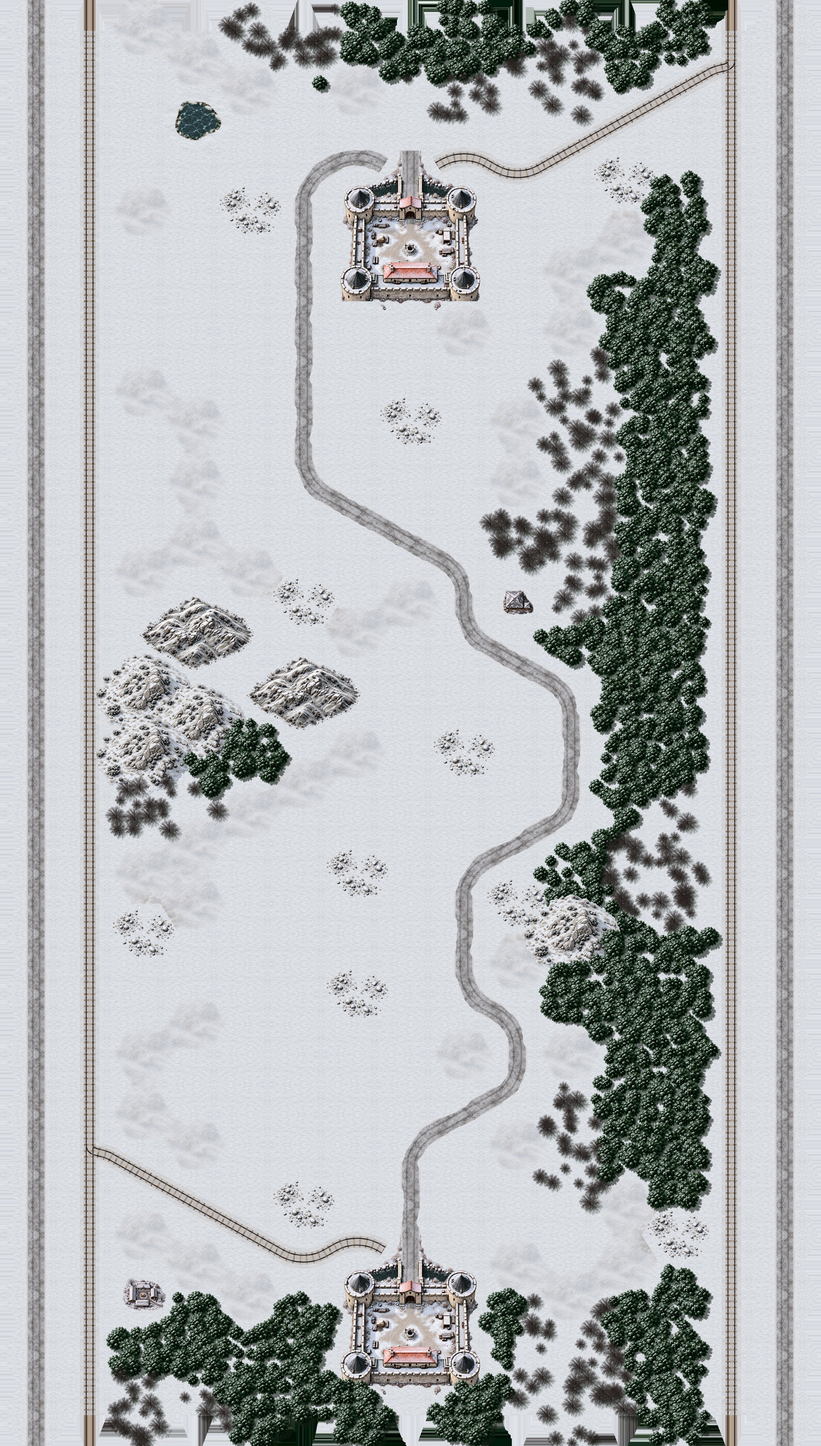
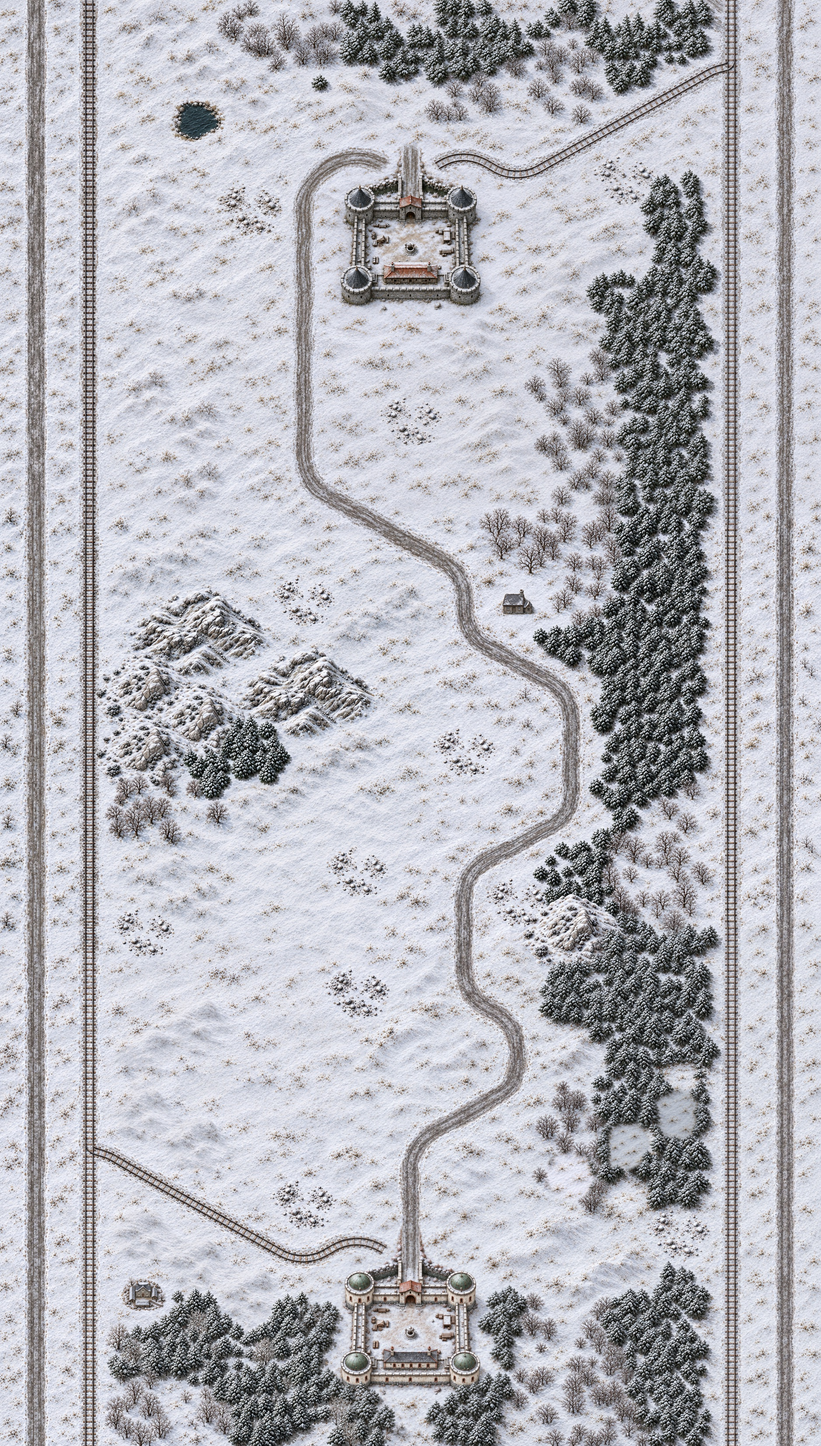
Paint January 1916 BISON and FROST backdrops
Preserve the two railway corridors, open pond, rocky passes and all 76 starts. Finish the approved Ardennes buildings and three contained woodland pockets; verify every start at both zooms in all three setups.

diff --git a/backpaint-plan.md b/backpaint-plan.md
@@ -189,22 +189,22 @@ existing footprints. These are artistic settings, not verified map locations.
 - [ ] [1916-01](levels/1916-01/)
   - [x] Audit `levels/1916-01/map.json` and every setup; record terrain, routes, waterways, buildings, airfields, starting units and linked ships. `build/review/backdrops/1916-01/approval-audit.json` and `.md`: winter, 1090×1920, two HQs, two houses, 76 inherited starts, no linked ships or airfields; rail/road/path coordinates recorded. Input hashes in `approval-baseline-sha256.txt`; scenario, binding and backdrop tests pass. Proposed brief: [BISON/FROST](docs/backpaint-approvals.md#1916-01--bisonfrost), approved by the user on 2026-11-04.
   - [x] Obtain approval for the month's season, light, style references and painting brief, including replacement of its existing placeholder. User revised and approved all remaining briefs on 2026-11-04; see [approved briefs](docs/backpaint-approvals.md).
-  - [ ] Render a fresh unit-free 4× layout guide: `just hl art map -level levels/1916-01:cp -out build/review/backdrops/1916-01/guide`.
-  - [ ] Record world/output dimensions and aspect, section count, canvas sizes, origins and overlaps following the guide; confirm complete map coverage.
-  - [ ] Crop and scale the guide into the planned overlapping section canvases, preserving exact registration.
-  - [ ] Prepare each section's prompt with canvas/world dimensions, hex size, approved season/light and references explicitly separated into layout and style.
-  - [ ] Paint every approved section, preserving every terrain feature, road, river, forest edge, crater, building and fort within about 10 canvas pixels of the guide.
-  - [ ] Review every section against the guide and approved references; correct deviations and select the approved pick per section. Run a comparison round only with separate approval.
-  - [ ] Stitch the sections with overlap RGB gains normalised to mean 1, minimum-difference seams using a 7×7-blurred cost, and ±10 px smoothstep blends.
-  - [ ] Inspect every join at full resolution and with a hex-grid overlay; correct seams, doubled features and registration errors.
-  - [ ] Grade the assembled painting towards the approved reference's light and chroma; retain continuous banks, fields, trenches and route connections.
-  - [ ] Finish exact-hex objects using separate sheets and feathered masks where needed; retain their coordinates without rotation or transposition.
-  - [ ] Finish the approved individual HQs, factories and depots with masked crops; preserve entrances, yards, landing places and open airstrips.
-  - [ ] Save the finished lossless source to `levels/1916-01/backdrop.png`, replacing only the approved placeholder; preserve world aspect and keep the file below 100 MiB.
-  - [ ] Encode the runtime JPEG from that source: `just hl levels backdrop jpeg 1916-01`.
-  - [ ] Run `just hl levels backdrop check`; verify the installed PNG/JPEG dimensions, world aspect and actual source file size.
-  - [ ] Review `1916-01:cp`, `1916-01:ec` and `1916-01:2p` in game at normal and close zoom; check starting units and linked ships' full hulls at their midpoint and facing against terrain, shores, piers and bridges.
-  - [ ] Record the verification and visual-review evidence, and update `docs/painted-backdrops.md` to describe the finished painting.
+  - [x] Render a fresh unit-free 4× layout guide: `build/review/backdrops/1916-01/guide/`, 4360×7680 pixels, zero gaps/issues (`map.json`, `guide-render.log`).
+  - [x] Record world/output dimensions and aspect, section count, canvas sizes, origins and overlaps following the guide; confirm complete map coverage. `section-layout.json`: 1090×1920 world, six 728×727 sections, 1252×1250 canvases, x 0/362 and y 0/596/1193, minimum 366×130 world-pixel overlaps; full coverage and 1875×3302 output.
+  - [x] Crop and scale the guide into the planned overlapping section canvases, preserving exact registration. Six exclusive registered crops in `sections/`, via the backdrop CLI (`sections.log`).
+  - [x] Prepare each section's prompt with canvas/world dimensions, hex size, approved season/light and references explicitly separated into layout and style. `prompts.json` and `used-prompts.json` preserve all six prompts, layout crops and the December 1915 style reference.
+  - [x] Paint every approved section, preserving every terrain feature, road, river, forest edge, crater, building and fort within about 10 canvas pixels of the guide. All six initial paintings saved in `painted/`; original map/setup hashes and current audit match the approved baseline.
+  - [x] Review every section against the guide and approved references; correct deviations and select the approved pick per section. All six guide/painting pairs viewed, edge notches filled without reframing; no extra candidates or comparison round.
+  - [x] Stitch the sections with overlap RGB gains normalised to mean 1, minimum-difference seams using a 7×7-blurred cost, and ±10 px smoothstep blends. `stitched.png` and its JSON record six sections and five joins, with all-overlaps gains normalized to mean 1.
+  - [x] Inspect every join at full resolution and with a hex-grid overlay; correct seams, doubled features and registration errors. All five native/plain and five grid join crops viewed, including both complete 1875-pixel row joins. All seven lightness comparisons pass 2.5/5 L* limits; no warnings (`lightness.json`).
+  - [x] Grade the assembled painting towards the approved reference's light and chroma; retain continuous banks, fields, trenches and route connections. Existing pale overcast snow treatment matches the approved December reference without an additional global grade; continuous road/path/rail routes, pond and rocky passes reviewed in the assembled overview.
+  - [x] Finish exact-hex objects using separate sheets and feathered masks where needed; retain their coordinates without rotation or transposition. No baked units or emplacements. Native preflight exposed infantry over conifers; three approved small snowy pockets at [37,7], [38,6], [39,6] were corrected with circular masks wholly inside their original forest hexes (`finish-ground.json`). Final native close view confirms all three clear. Three retained ring warnings reflect the deliberate change from trees to snow; see `lightness-ground.json` and `woodland-finished-close.png`.
+  - [x] Finish the approved individual HQs, factories and depots with masked crops; preserve entrances, yards, landing places and open airstrips. Both HQs and both cottages finished and viewed in `buildings/final/`; original tower/gate positions and open approaches retained. All four actual feather rings pass 2.5/5 L* (`lightness-buildings.json`).
+  - [x] Save the finished lossless source to `levels/1916-01/backdrop.png`, replacing only the approved placeholder; preserve world aspect and keep the file below 100 MiB. Exact copy of `finished.png`, 1875×3302, 13,678,944 bytes.
+  - [x] Encode the runtime JPEG from that source: `just hl levels backdrop jpeg 1916-01`. Quality 95, matching 1875×3302 dimensions, 3,633,853 bytes (`jpeg.log`).
+  - [x] Run `just hl levels backdrop check`; verify the installed PNG/JPEG dimensions, world aspect and actual source file size. Global backdrop check passes; both dimensions verified, world aspect agrees within one pixel and all map/setup hashes remain unchanged.
+  - [x] Review `1916-01:cp`, `1916-01:ec` and `1916-01:2p` in game at normal and close zoom; check starting units and linked ships' full hulls at their midpoint and facing against terrain, shores, piers and bridges. Fresh embedded-JPEG build produced 33 frames per setup, zero gaps/issues. All 76 starts reviewed in eight normal and eleven close groups per mode: 57 accepted native views (`unit-review.md`). Aircraft, train wheelsets, all four stone/eleven hill starts and three forest pockets have full clearance; no ships/bridges.
+  - [x] Record the verification and visual-review evidence, and update `docs/painted-backdrops.md` to describe the finished painting. `verification.md` indexes all prompts, masks, joins, retained material-change warnings, hashes, tests and native evidence. All four targeted package suites and fresh installed build pass; the BISON/FROST painting and six-section layout are documented.
   - [ ] Commit the verified PNG/JPEG and documentation directly to `main`, then run `git push origin main`.
 
 - [ ] [1916-03](levels/1916-03/)

diff --git a/docs/painted-backdrops.md b/docs/painted-backdrops.md
@@ -186,6 +186,17 @@ The original bridge deck at [50,3] is widened within its hex beneath the armoure
 Prompts, lightness reports, masked corrections and runtime evidence are under
 `build/review/backdrops/1915-11/`.
 
+BISON/FROST (`1916-01`, 1875×3302) has shallow settled January snow over dormant
+grass, bare trees and dark conifers in pale overcast morning light. Dark ballast
+and snowy sleepers trace both railway corridors and their switches; the central
+slushy path, rocky passes and small open pond retain their original courses.
+The northern HQ is rough grey granite with slate cones and a red-tiled timber hall;
+the southern HQ has cream render, brick window surrounds, copper domes and a slate
+hall. A timber woodcutter's cottage and stone railway keeper's house retain their
+small footprints. Three snowy woodland pockets support the unchanged infantry.
+Prompts, lightness reports, masks and native evidence are under
+`build/review/backdrops/1916-01/`.
+
 HUSAR/SABRE (`1915-03`, 3829×3302) has a March thaw under cool diffuse light: wet olive
 and ochre meadow, bare trees and conifers, slushy tracks and sheltered old snow. Connected
 ridges, gullies and scree join the southwestern mountains into one massif; the central mud,
@@ -294,6 +305,7 @@ Cut the world into sections of 1090×727 world px (3:2, one 1536×1024 canvas ea
 MOUSE/SPORT, CROUY/AISNE, RIGHT/BARON, RATIO/TOXIN, FLAME/XENON, BALON/HOUSE and ELITE/SEVEN use nine 728×727 world-pixel sections:
 columns at x 0, 465, 930 and rows at y 0, 596, 1193. The smaller sections provide their higher image density.
 TROLL (1090×1280) uses four of those sections, at x 0, 362 and y 0, 553.
+BISON/FROST (1090×1920) uses six: x 0, 362 and y 0, 596, 1193.
 STERN and ARRAS (2226×2560) use sixteen: columns at x 0, 499, 999, 1498 and rows at y 0, 611, 1222, 1833.
 
 VENOM/BIMBO uses twelve of those sections, the same columns and four rows at y 0, 611, 1222, 1833
